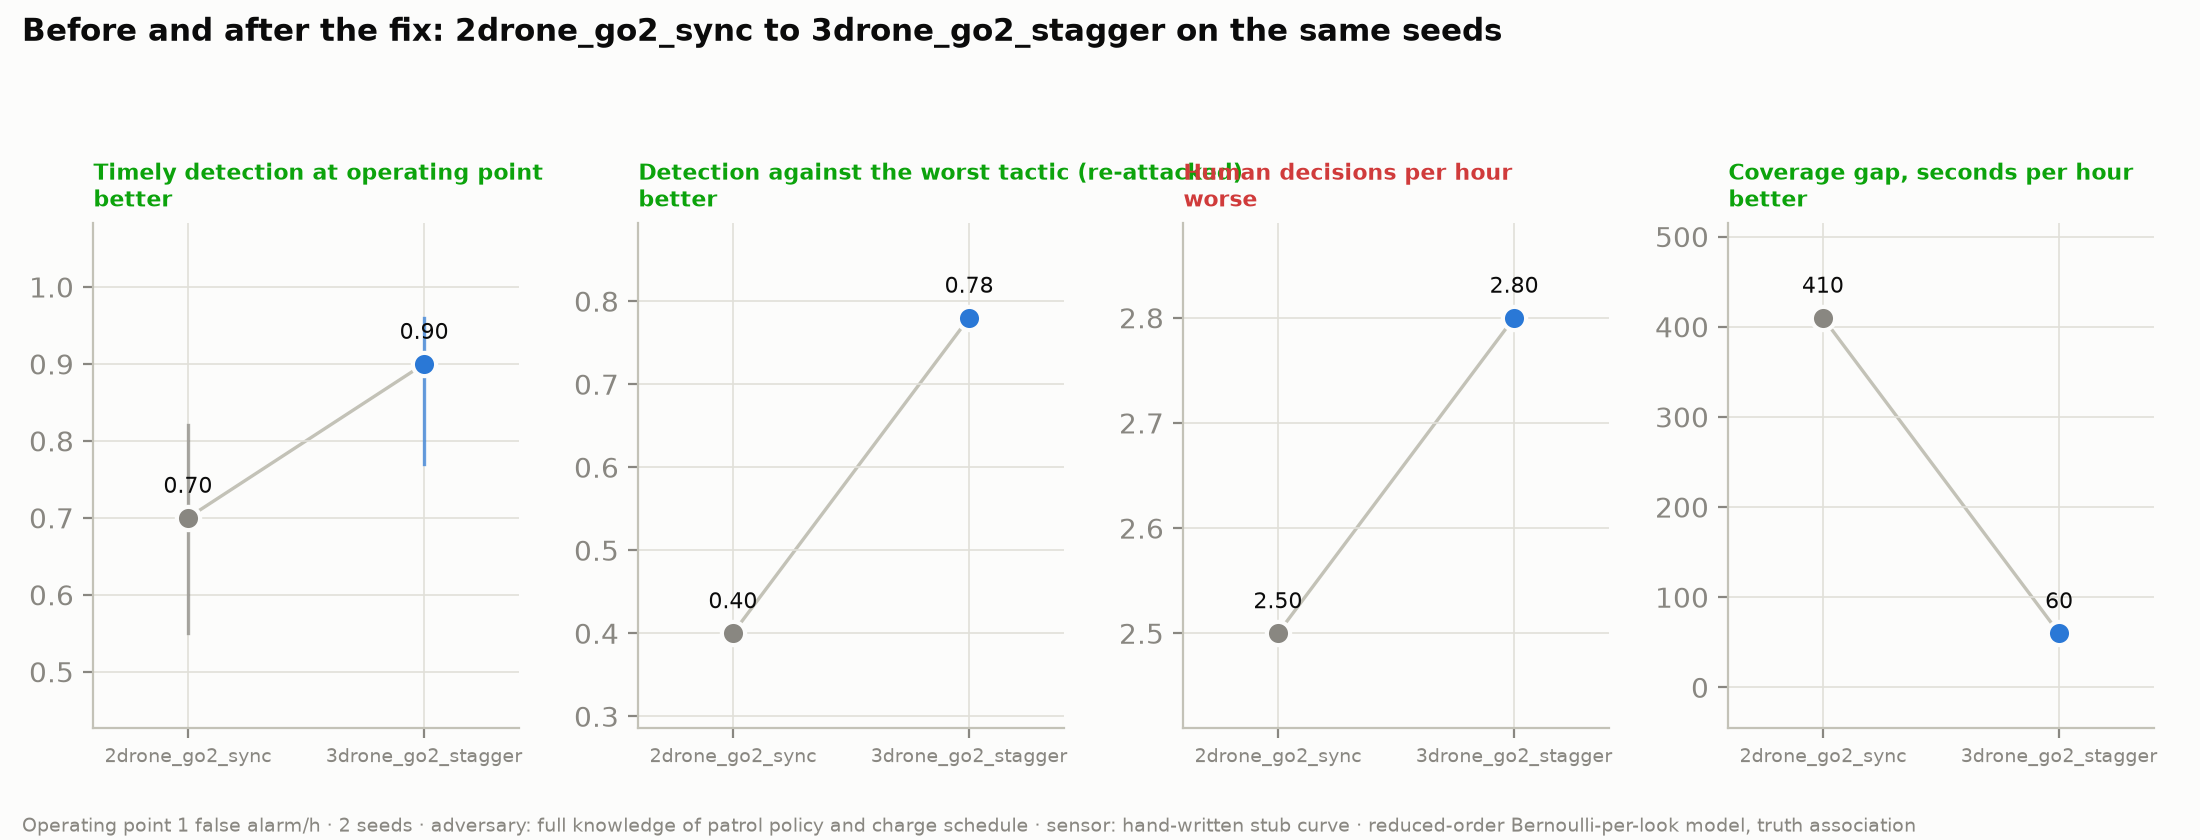
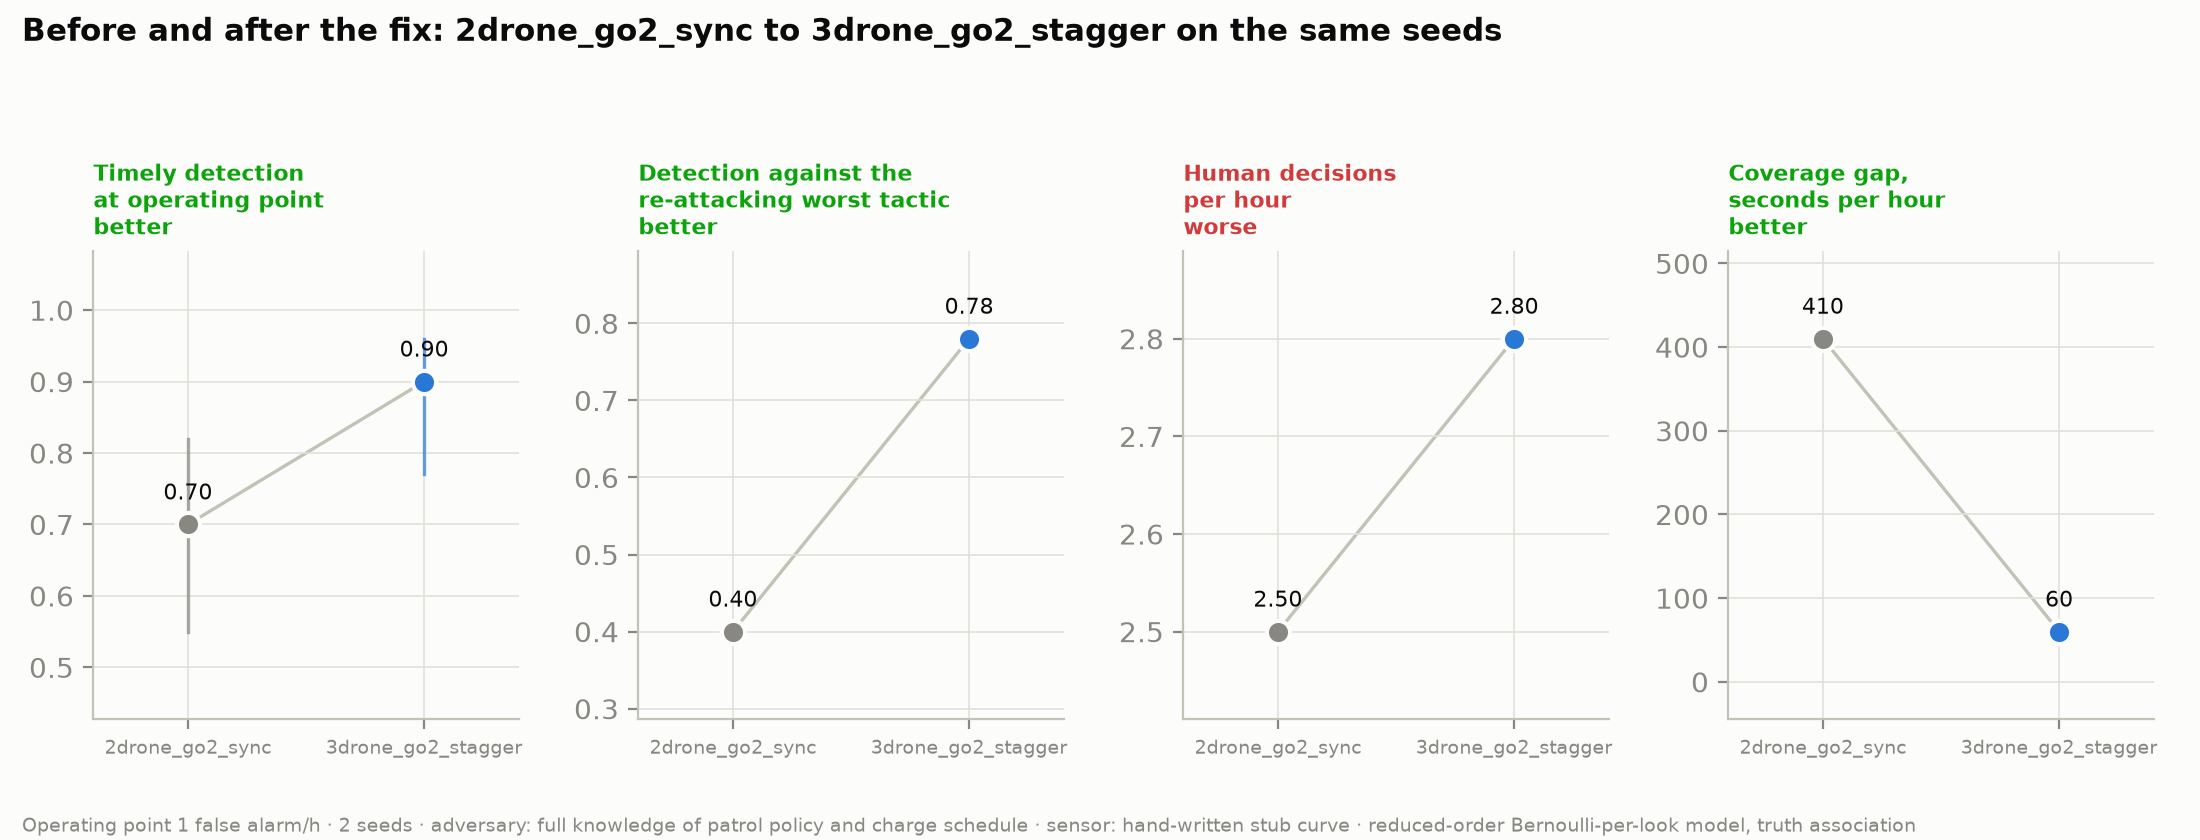
feat(lane-c): chart polish, explanations, decisions 004-007, lane status

diff --git a/pitch/make_charts.py b/pitch/make_charts.py
@@ -4,6 +4,7 @@ from __future__ import annotations
 
 import argparse
 import json
+import textwrap
 from importlib import resources
 from pathlib import Path
 
@@ -16,6 +17,7 @@ from palette import DARK, FAMILY_ORDER, LIGHT, Palette
 
 from airtight.contracts import ConfigResult, Report, SensorCurves, Site, Tactic
 from airtight.redteam.coverage import GeometryCoverage
+from airtight.redteam.geometry import point_in_polygon
 from airtight.redteam.search import SearchResult
 
 EXAMPLES = resources.files("airtight.contracts.examples")
@@ -49,12 +51,13 @@ def style(p: Palette) -> None:
     )
 
 
-def conditions_line(r: Report) -> str:
+def conditions_line(r: Report, width: int = 150) -> str:
     c = r.conditions
-    return (
+    text = (
         f"Operating point {c.far_per_hour_operating_point:g} false alarm/h · {c.n_seeds} seeds · "
         f"adversary: {c.adversary_knowledge} · sensor: {c.sensor_calibration} · {c.detection_model_note}"
     )
+    return "\n".join(textwrap.wrap(text, width))
 
 
 def _frontier(cfgs: list[ConfigResult]) -> list[ConfigResult]:
@@ -111,7 +114,7 @@ def chart_cost_vs_detection(r: Report, p: Palette, out: Path, numbers: dict) -> 
     ax.set_ylim(0, 1.02)
     ax.set_title("Detection versus cost, worst-case tactic per configuration")
     fig.text(0.01, 0.01, conditions_line(r), fontsize=7, color=p.muted)
-    fig.tight_layout(rect=(0, 0.04, 1, 1))
+    fig.tight_layout(rect=(0, 0.07, 1, 1))
     fig.savefig(out / "cost_vs_detection.png")
     plt.close(fig)
     numbers["cost_vs_detection"] = {
@@ -161,7 +164,7 @@ def chart_roc(r: Report, p: Palette, out: Path, numbers: dict) -> None:
     ax.set_title("Detection against false-alarm rate")
     ax.legend(loc="lower right", fontsize=8)
     fig.text(0.01, 0.01, conditions_line(r), fontsize=7, color=p.muted)
-    fig.tight_layout(rect=(0, 0.04, 1, 1))
+    fig.tight_layout(rect=(0, 0.07, 1, 1))
     fig.savefig(out / "roc.png")
     plt.close(fig)
     numbers["roc_configs"] = [c.config_name for c in picks]
@@ -198,7 +201,7 @@ def chart_vulnerability_map(
     for iy in range(cm.ny):
         for ix in range(cm.nx):
             s = cm.scores[iy][ix]
-            if s > 0:
+            if s > 0 and point_in_polygon(cm.center(ix, iy), site.perimeter):
                 step = min(len(p.sequential) - 1, int(round(s / top * (len(p.sequential) - 1))))
                 ax.add_patch(
                     plt.Rectangle(
@@ -335,7 +338,7 @@ def chart_before_after(r: Report, fixed: str | None, p: Palette, out: Path, numb
     )
     metrics = [
         (
-            "Timely detection at operating point",
+            "Timely detection\nat operating point",
             base.pd_at_operating_point,
             after.pd_at_operating_point,
             base.pd_at_operating_point_ci,
@@ -343,7 +346,7 @@ def chart_before_after(r: Report, fixed: str | None, p: Palette, out: Path, numb
             True,
         ),
         (
-            "Detection against the worst tactic (re-attacked)",
+            "Detection against the\nre-attacking worst tactic",
             base.worst_tactic_pd,
             after.worst_tactic_pd,
             None,
@@ -351,7 +354,7 @@ def chart_before_after(r: Report, fixed: str | None, p: Palette, out: Path, numb
             True,
         ),
         (
-            "Human decisions per hour",
+            "Human decisions\nper hour",
             base.human_decisions_per_hour,
             after.human_decisions_per_hour,
             None,
@@ -359,7 +362,7 @@ def chart_before_after(r: Report, fixed: str | None, p: Palette, out: Path, numb
             False,
         ),
         (
-            "Coverage gap, seconds per hour",
+            "Coverage gap,\nseconds per hour",
             base.coverage_gap_s_per_hour,
             after.coverage_gap_s_per_hour,
             None,
@@ -399,8 +402,8 @@ def chart_before_after(r: Report, fixed: str | None, p: Palette, out: Path, numb
         fontsize=11,
         fontweight="bold",
     )
-    fig.text(0.01, 0.01, conditions_line(r), fontsize=7, color=p.muted)
-    fig.tight_layout(rect=(0, 0.05, 1, 0.92))
+    fig.text(0.01, 0.01, conditions_line(r, 200), fontsize=7, color=p.muted)
+    fig.tight_layout(rect=(0, 0.06, 1, 0.92))
     fig.savefig(out / "before_after.png")
     plt.close(fig)
     numbers["before_after"] = {

diff --git a/src/airtight/memory/store.py b/src/airtight/memory/store.py
@@ -74,7 +74,7 @@ class FleetMemoryStore:
         ]
 
     def evidence_score(self, object_id: str) -> float:
-        return sum(it.score for it in self.query("evidence") if it.object_id == object_id)
+        return float(sum(it.score for it in self.query("evidence") if it.object_id == object_id))
 
     def evidence_scores(self) -> dict[str, float]:
         totals: dict[str, float] = defaultdict(float)

diff --git a/src/airtight/redteam/primitives.py b/src/airtight/redteam/primitives.py
@@ -92,4 +92,4 @@ def compile_program(prog: Program, site: Site, fleet: FleetConfig, cfg: RedTeamC
 
 
 def _dist(a: XY, b: XY) -> float:
-    return ((a.x - b.x) ** 2 + (a.y - b.y) ** 2) ** 0.5
+    return float(((a.x - b.x) ** 2 + (a.y - b.y) ** 2) ** 0.5)

diff --git a/docs/lanes/lane-c.md b/docs/lanes/lane-c.md
@@ -2,6 +2,34 @@
 
 You own `src/airtight/redteam/`, `src/airtight/memory/`, `pitch/`. You also lead the syncs. Everything below that is an algorithm you write yourself; the scaffolding around it (loaders, CLI, caching, logging, plotting) can be requested from Claude at any point.
 
+## Status (2026-09-19, branch `lane-c`)
+
+Built and tested on the stub simulator, with the design recorded in decisions 004 to 007:
+
+| Step | State | Where |
+|---|---|---|
+| C0 | done | `contracts/examples/tactic_decoy.json`, `tactic_blind_spot.json` |
+| C1 | done | `redteam/families.py`, `redteam/validate.py`, `redteam/geometry.py`, `redteam/coverage.py` |
+| C2 | done on the stub | `redteam/search.py`, `redteam/objective.py`; `airtight-redteam search` |
+| C4a | done, one live call verified ($0.00015) | `redteam/proposer.py`, `primitives.py`, `llm.py`; `airtight-redteam propose` |
+| C3, C4b | waiting on lane B's real `run_episode` (hour 8) | rerun `search` and `propose --prior` unchanged |
+| C5 | done, property tests pass | `memory/store.py`, `memory/items.py`; `tests/memory/` |
+| C6 | pipeline done; numbers from the ledger | `redteam/accounting.py`; `airtight-redteam ledger`; `pitch/make_token_chart.py` |
+| C7 | done as the `comms_cut` family | `redteam/families.py` |
+| C8 | chart pipeline done; deck and video pending the frozen report | `pitch/make_charts.py`, `deck_outline.md`, `demo_script.md` |
+
+Commands that matter:
+
+```bash
+uv run airtight-redteam search --workers 8                 # data/tactics/top_<family>.json + summary.json
+uv run airtight-redteam propose --mock --prior data/tactics # free; --mock off makes one real call under the cap
+uv run airtight-redteam search --inject data/tactics/llm_proposals.json
+uv run airtight-redteam ledger
+uv run python pitch/make_charts.py && uv run python pitch/make_token_chart.py
+```
+
+At hour 8, the only change is that `run_episode` stops being the stub; nothing in lane C imports anything but that function and the contracts.
+
 ## Hour 0: team lead duties before touching lane C
 
 1. Everyone: clone dimos next to this repo, `uv sync --extra dev`, `./scripts/check_pins.sh`, `uv run pytest`.
